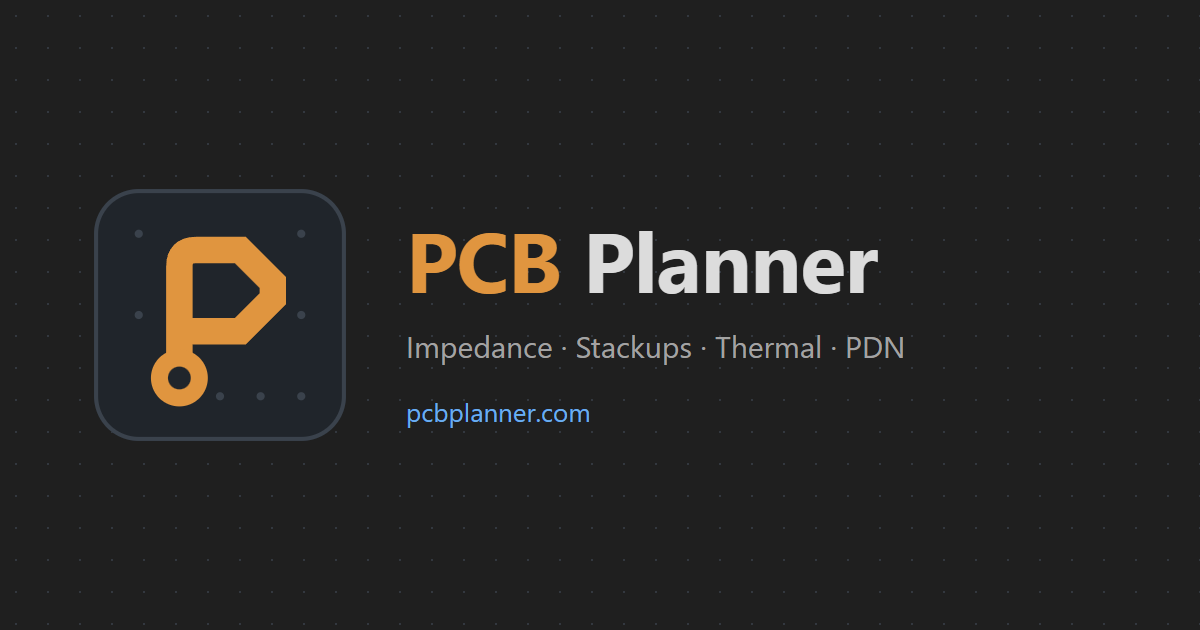
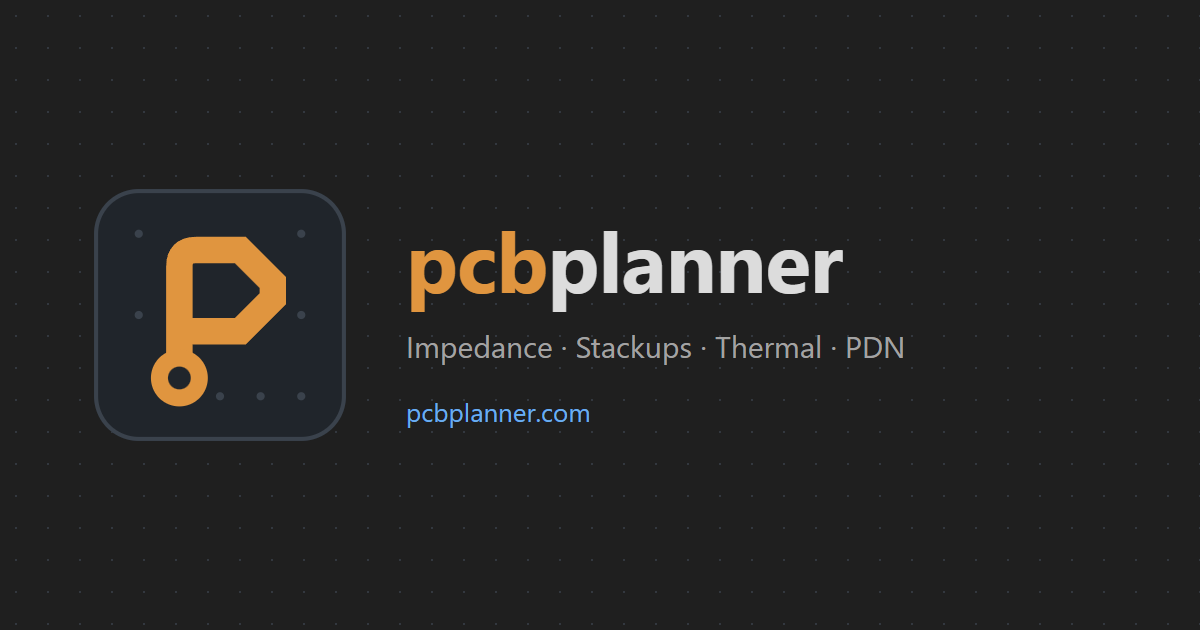
Remove ads and partner box; rename app to pcbplanner

Changed region(s): [[0.3392, 0.3619, 0.74, 0.5127]]

diff --git a/index.html b/index.html
@@ -3,8 +3,8 @@
   <head>
     <meta charset="UTF-8" />
     <meta name="viewport" content="width=device-width, initial-scale=1.0" />
-    <title>PCB Planner – PCB impedance, stackup and design calculators</title>
-    <meta name="description" content="PCB Planner: impedance field solver (microstrip, stripline, differential), stackup advisor with 178 fab stackups, trace width, via, thermal, crosstalk, PDN and electronics calculators. Free, in the browser." />
+    <title>pcbplanner – PCB impedance, stackup and design calculators</title>
+    <meta name="description" content="pcbplanner: impedance field solver (microstrip, stripline, differential), stackup advisor with 178 fab stackups, trace width, via, thermal, crosstalk, PDN and electronics calculators. Free, in the browser." />
     <link rel="canonical" href="https://pcbplanner.com/" />
     <meta name="theme-color" content="#2b2b2b" />
     <link rel="icon" type="image/svg+xml" href="/favicon.svg" />
@@ -12,9 +12,9 @@
     <link rel="apple-touch-icon" href="/apple-touch-icon.png" />
     <link rel="manifest" href="/site.webmanifest" />
     <meta property="og:type" content="website" />
-    <meta property="og:site_name" content="PCB Planner" />
+    <meta property="og:site_name" content="pcbplanner" />
     <meta property="og:url" content="https://pcbplanner.com/" />
-    <meta property="og:title" content="PCB Planner – PCB impedance, stackup and design calculators" />
+    <meta property="og:title" content="pcbplanner – PCB impedance, stackup and design calculators" />
     <meta property="og:description" content="Impedance field solver, stackup advisor, thermal, PDN and more. Free, in the browser." />
     <meta property="og:image" content="https://pcbplanner.com/og-image.png" />
     <meta property="og:image:width" content="1200" />
@@ -25,7 +25,7 @@
       {
         "@context": "https://schema.org",
         "@type": "WebApplication",
-        "name": "PCB Planner",
+        "name": "pcbplanner",
         "url": "https://pcbplanner.com/",
         "applicationCategory": "EngineeringApplication",
         "operatingSystem": "Any",
@@ -44,7 +44,7 @@
   </head>
   <body>
     <div id="root"></div>
-    <noscript>PCB Planner needs JavaScript to run its calculators.</noscript>
+    <noscript>pcbplanner needs JavaScript to run its calculators.</noscript>
     <script type="module" src="/src/main.tsx"></script>
   </body>
 </html>

diff --git a/src/components/ToolPage.tsx b/src/components/ToolPage.tsx
@@ -2,7 +2,6 @@ import { useEffect, type ReactNode } from 'react';
 import { createPortal } from 'react-dom';
 import { APP_NAME, SITE_URL } from '../config';
 import { useShell } from '../state/shell';
-import { AdSlot, PartnerBox } from './Ads';
 
 export function useDocumentMeta(title: string, description: string) {
   useEffect(() => {
@@ -73,11 +72,6 @@ export function ToolPage({
       </div>
 
       <div className="space-y-3">{children}</div>
-
-      <div className="mt-4 grid gap-3 md:grid-cols-[minmax(0,1fr)_280px]">
-        <AdSlot slot="document-inline" minHeight={100} />
-        <PartnerBox />
-      </div>
 
       {method && (
         <details id="method" className="mt-4 border border-line bg-sheet" open>

diff --git a/src/components/Layout.tsx b/src/components/Layout.tsx
@@ -121,7 +121,7 @@ export function Layout() {
           <Link to="/" className="flex h-full items-center gap-1.5 px-2.5 text-ink no-underline" title={`${APP_NAME} – pcbplanner.com`}>
             <img src="/favicon.svg" width="16" height="16" alt="" />
             <span className="font-semibold">
-              <span className="text-[var(--copper)]">PCB</span> Planner
+              <span className="text-[var(--copper)]">pcb</span>planner
             </span>
           </Link>
           <Menu {...menuProps('File')}>

diff --git a/src/config.ts b/src/config.ts
@@ -1,3 +1,3 @@
-export const APP_NAME = 'PCB Planner';
+export const APP_NAME = 'pcbplanner';
 export const SITE_URL = 'https://pcbplanner.com';
 export const TAGLINE = 'PCB impedance, stackup and design calculators';

diff --git a/README.md b/README.md
@@ -1,4 +1,4 @@
-# PCB Toolkit
+# pcbplanner
 
 Browser-based calculators for PCB design with an Altium Designer–style interface: menu bar, document tabs, a Tools panel, a Properties panel for the inputs, and a status bar. Built with Vite, React, TypeScript and Tailwind CSS.
 
@@ -52,5 +52,5 @@ node scripts/shots.mjs <outDir>   # browser smoke test + screenshots (needs Edge
 
 ## Monetisation hooks
 
-- `src/components/Ads.tsx`: `AdSlot` placeholders and `PartnerBox` (JLCPCB / PCBWay links). Replace the `href`s with referral URLs.
+- No advertising or affiliate links for now. Add them in `src/components/ToolPage.tsx` when needed.
 - The app name is set in `src/config.ts`.
